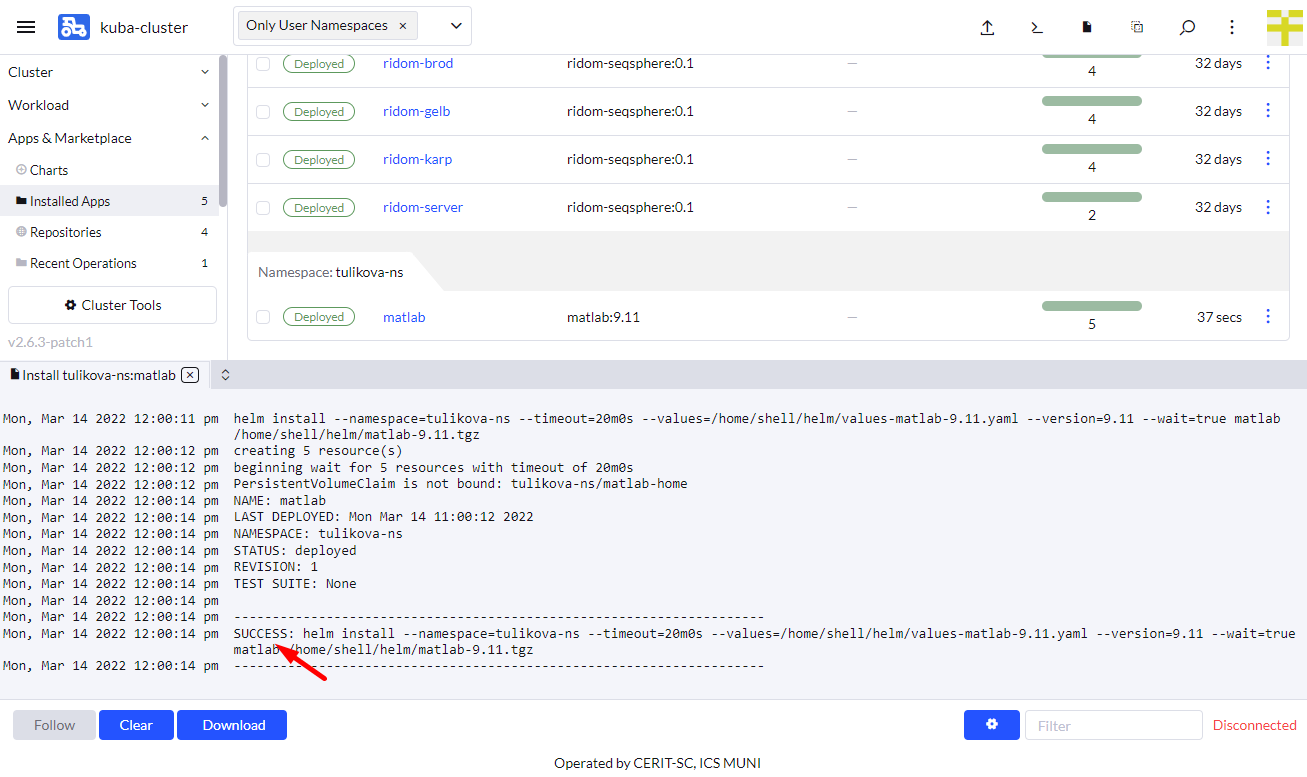
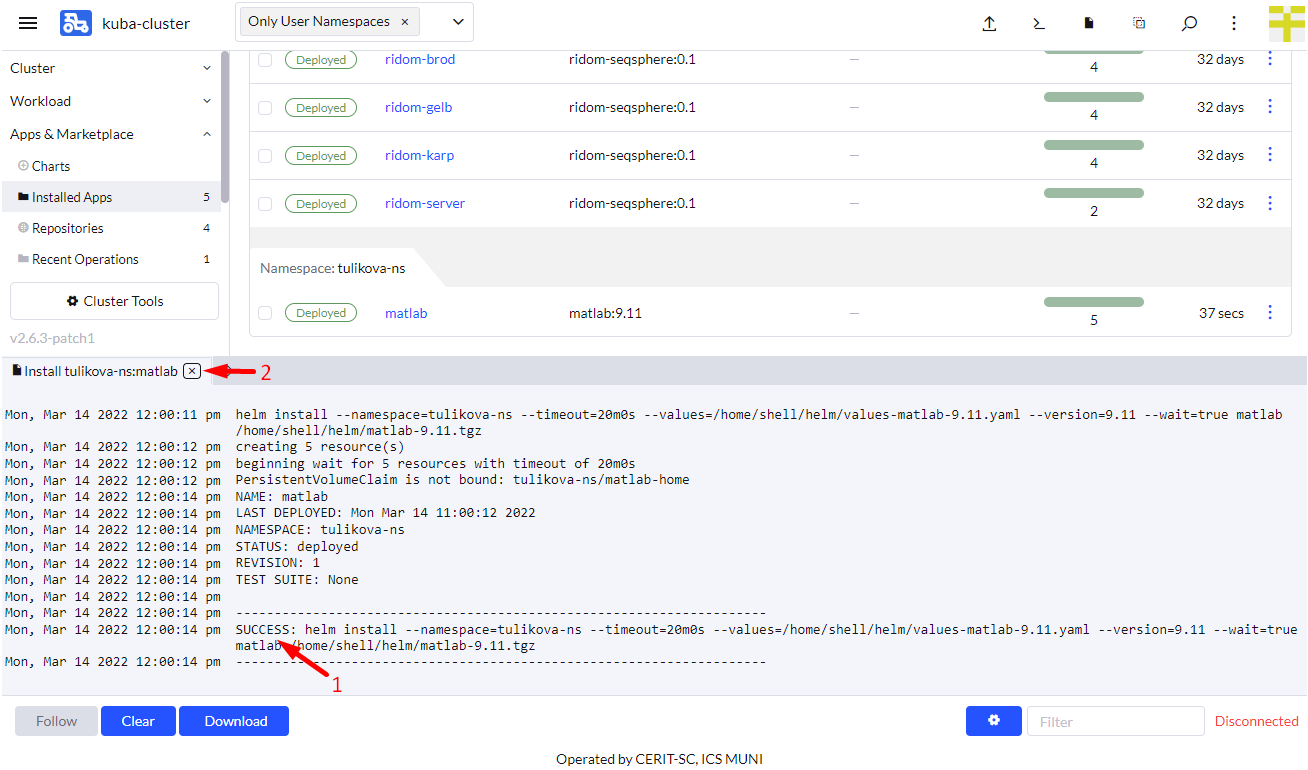
DOCS webinar: finish matlab

diff --git a/docs/webinar1.md b/docs/webinar1.md
@@ -5,8 +5,6 @@ permalink: /docs/webinar1.html
 key: webinar
 aside:
   toc: true
-sidebar:
-  nav: docs
 ---
 # Praktické ukázky
 
@@ -69,6 +67,8 @@ Tím se dostáváte k ploše konkrétního clusteru, kde lze zobrazit přehledy,
 
 Následují ukázky spuštění předpřipravených aplikací jako jsou RStudio server a Matlab. Pro Matlab je nutné mít fungujícího `vnc` klienta, na Linuxu např. `vncviewer`, na Mac OS stačí *Safari* prohlížeč.
 
+Žádný kroků uvedených níže nelze vynechat, jde o nezbytné minimum.
+
 Na úvod upozornění, pro aplikace se zadávají požadavky na zdroje. Jak bylo zmíněno v prezentaci, je limit 20 CPU a 40GB Memory, zadání vyšších požadavků způsobí nespuštění aplikace.
 
 ### Rstudio
@@ -109,13 +109,13 @@ Poslední záložku se zdroji necháme pro demo s předvyplněnými hodnotami. A
 
 ![appform2](rstudio/appform4.png)
 
-Zobrazí se následující překryv, kde je nutné počkat na oznámení `SUCCESS`. Tímto se aplikace nainstalovala a je připravena k použití.
+Zobrazí se následující překryv, kde je nutné počkat na oznámení `SUCCESS` (šipka 1). Tímto se aplikace nainstalovala a je připravena k použití. Předchozí výpis s instalací zavřeme křížkem (šipka 2).
 
 ![apphelm](rstudio/apphelm.png)
 
 #### Přihlášení do běžící instance
 
-Předchozí výpis s instalací končící oznámením `SUCCESS` zavřeme křížkem a projdeme přes menu vlevo `Service Discovery` (šipka 1) do `Ingresses` (šipka 2). Pokud uvidíme řádek s názvem `cm-acme-http-solver...` (šipka 3), je třeba chvíli vyčkat dokud nezmizí (v tomto momentě se získává SSL certifikát). Následně se pokračuje kliknutím na odkaz u šipky 4. Každý uživatel má vlastní podobu odkazu. Obsahuje zvolené jméno (typicky `rstudio`) a zvolený *Namespace*. 
+Projdeme přes menu vlevo `Service Discovery` (šipka 1) do `Ingresses` (šipka 2). Pokud uvidíme řádek s názvem `cm-acme-http-solver...` (šipka 3), je třeba chvíli vyčkat dokud nezmizí (v tomto momentě se získává SSL certifikát). Následně se pokračuje kliknutím na odkaz u šipky 4. Každý uživatel má vlastní podobu odkazu. Obsahuje zvolené jméno (typicky `rstudio`) a zvolený *Namespace*. 
 
 ![appacme](rstudio/appacme.png)
 
@@ -139,7 +139,7 @@ Pokud aplikace již není potřeba, je vhodné ji smazat. Ze základní plochy R
 
 ### Matlab
 
-Další ukázkovou aplikací je Matlab. Pro vyzkoušení této aplikace je nutný *VNC* prohlížeč na počítači, ze kterého pracujete, nez něj nelze apliaci zobrazit. Doporučujeme před zkoušením Matlabu smazat předchozí aplikaci - RStudio dle posledního bodu postupu. Stejně jako u RStudia začneme na úvodní ploše. Návrat na ni lze provést Kliknutím vlevo nahoře na symbol menu `≡` a následně na `kuba-cluster`.
+Další ukázkovou aplikací je Matlab. Pro vyzkoušení této aplikace je nutný *VNC* prohlížeč na počítači, ze kterého pracujete, bez něj nelze aplikaci zobrazit. Doporučujeme před zkoušením Matlabu smazat předchozí aplikaci - RStudio dle posledního bodu postupu. Stejně jako u RStudia začneme na úvodní ploše. Návrat na ni lze provést Kliknutím vlevo nahoře na symbol menu `≡` a následně na `kuba-cluster`.
 
 ![dashboard3](cluster1.jpg)
 
@@ -179,8 +179,42 @@ Objeví se poslední část formuláře, kam je potřeba vyplnit `Timeout` na ho
 
 ![appform5](matlab/appform5.png)
 
-Zobrazí se následující překryv, kde je nutné počkat na oznámení `SUCCESS`. Tímto se aplikace nainstalovala, ale na rozdíl od RStudia ještě není připravena k použití.
+Zobrazí se následující překryv, kde je nutné počkat na oznámení `SUCCESS` (šipka 1). Tímto se aplikace nainstalovala, ale na rozdíl od RStudia ještě není připravena k použití. Zavřeme překryv křížkem (šipka 2). 
 
 ![apphelm](matlab/apphelm.png)
+
+V levém menu přejdeme přes `Workload` (šipka 1) do `Pods` (šipka 2) a je třeba vyčkat, než uvidíme označení `Running` (šipka 3), až v této chvíli aplikace běží.
+
+![apprunning]((matlab/apprunning.png)
+
+Nyní se lze do aplikace přihlásit. K tomu je zapotřebí získat IP adresu, na kterou se má připojit VNC klient. Tu získáme navigací na `Service Discovery` v levém menu (šipka 1), následně `Services` (šipka 2) a konečně najetí myší nad `5900/TCP` (šipka 3) by mělo ukázat v dolním rohu prohlížeče cílovou IP adresu (šipka 4). Variantně, pokud to prohlížeč dovolí, lze kliknout pravým tlačítkem myši nad `5900/TCP` a dát kopírovat odkaz. Adresa bude vždy začínat `147.251.253.` a je nutné tedy zjistit jen poslední 3 číslice.
+
+![appservice](matlab/appservice.png)
+
+Tuto IP adresu použijeme ve VNC klientu např. takto. Do přihlašovacího okna je nutné vyplnit heslo z formuláře výše (to, co nemělo obsahovat znaky `{` a `}`. V případě Safari prohlížeče stačí napsat do URL `vnc://147.251.253.x` kde `x` je konkrétní adresa z předchozího bodu.
+
+![vnc1](matlab/vncstart.png)
+
+Pokud je vše správně připojí se vzdálená plocha.
+
+![vnc2](matlab/vncrunning.png)
+
+Zde je potřeba vybrat požadovanou licenci a pokračovat kliknutím na `Perform licence check and run`. 
+
+![vnc3](matlab/vncrunning1.png)
+
+Pak se již spustí samotný Matlab.
+
+![vnc4](matlab/matlabrunning.png)
+
+Ukázka práce v Matlabu je již nad rámec tohoto webináře. Zbytek desktopu je však funkční také.
+
+#### Smazání aplikace
+
+Pokud aplikace již není potřeba, je vhodné ji smazat. Ze základní plochy Rancheru se pokračuje do `App & Marketplace` (šipka 1) přes `Installed Apps` (šipka 2), vybereme aplikaci (šipka 3) a následně přes `Delete` (šipka 4) smažeme. Je vhodné před smazáním ukončit VNC klienta.
+
+![appdel](matlab/appdel.png)
+
+---
 
 ## Vlastní aplikace
